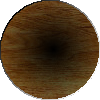
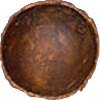
A new design for the holes
A bit of code to turn the halve and not the halves.

diff --git a/Hole.qml b/Hole.qml
@@ -19,7 +19,6 @@ Item {
             numberOfStone: hole.numberOfStone
         }
     }
-    transform: Rotation { origin.x: width/2 ; origin.y: height/2; angle: halve.player == 1 ? 0 : 180 }
     MouseArea {
         anchors.fill: parent
         onClicked: main.takeHole(player,index)

diff --git a/Stone.qml b/Stone.qml
@@ -9,7 +9,7 @@ Image {
     width: height
     source: "Stone.png"
     anchors.centerIn: parent
-    
+    visible: false
     property int numberOfStone
     Rectangle {
         id: textBack

diff --git a/Halve.qml b/Halve.qml
@@ -20,5 +20,6 @@ Image {
             }
         }
     }
-    
+
+    transform: Rotation { origin.x: width/2 ; origin.y: height/2; angle: halve.player == 1 ? 0 : 180 }
 }
